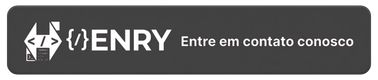
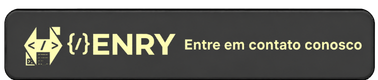
Atualização da aula 6
Foram adicionados estilos de botão nas páginas

diff --git a/index.html b/index.html
@@ -12,7 +12,7 @@
     <title>Diretório de Arquivos de Aulas</title>
     
 </head>
-<body bgcolor="#fffda4"> <!-- bg = background-->
+<body style ="background-color: rgb(255, 255, 197);"> <!-- bg = background-->
     <header>
         <h1>Diretório de Arquivos de Aulas</h1>
     </hearder>
@@ -23,6 +23,7 @@
         <a href="aula3/index.html"><button style="background-color: #000000; color: #ffffff; border: 2px solid #b3b0b0; border-radius: 40px; width: 70px; height: 40px;">Aula 3</button></a>
         <a href="aula4/texto.html"><button style="background-color: #000000; color: #ffffff; border: 2px solid #b3b0b0; border-radius: 40px; width: 70px; height: 40px;">Aula 4</button></a>
         <a href="aula5/paleta.html"><button style="background-color: #000000; color: #ffffff; border: 2px solid #b3b0b0; border-radius: 40px; width: 70px; height: 40px;">Aula 5</button></a>
+        <a href="aula6/index.html"><button style="background-color: #000000; color: #ffffff; border: 2px solid #b3b0b0; border-radius: 40px; width: 70px; height: 40px;">Aula 6</button></a>
     </main>
     <footer>
         <p>&copy; 2026 Diretório de Arquivos de Aulas</p>

diff --git a/aula6/index.html b/aula6/index.html
@@ -5,12 +5,13 @@
     <meta name="viewport" content="width=device-width, initial-scale=1.0">
     <title>Document</title>
 </head>
-<body>
+<body style = "background: rgb(255, 255, 197);" >
     <a aria-label="Chat on WhatsApp" target="_blank" href="https://wa.me/5511969090731?text=Olá!%20Tenho%20interesse%20em%20saber%20mais%20sobre%20os%20cursos%20de%20Programação."><img alt="Chat on WhatsApp" src="botao_whatsapp_henrydev.png" style="width:300p
-    x; height:auto;" /><br>
+    x; height:auto;" /><br><br>
     <a href="https://www.w3.org" target="_blank">Validador do W3C</a><br><br>
     <a href="cardapio_churrascaria.pdf" download>Baixar cardápio em PDF</a> <br><br>
-    <a href="https://maps.app.goo.gl/MLVvwWVLSzKQDaSe9" target="_blank">Localização no Google Maps</a>
-    </a><br>
+    <a href="https://maps.app.goo.gl/MLVvwWVLSzKQDaSe9" target="_blank">Localização no Google Maps</a><br><br>
+    <a href="../index.html"><button style = "background-color: #000000; color: #ffffff; border: 2px solid #b3b0b0; border-radius: 35px; width: 70px; height: 70px;">Voltar</button>
+    
 </body>
 </html>

diff --git a/aula1/index.html b/aula1/index.html
@@ -13,7 +13,7 @@
   <title>Henry de Cerqueira da Costa - Portifólio</title>
 </head>
 
-<body bgcolor="#fffda4">
+<body style="background-color: rgb(255, 255, 197);">
   <h1>HENRY DE CERQUEIRA DA COSTA</h1>
   <p>Bem-Vindo à minha página!</p>
   <a href="../index.html"><button style="background-color: #000000; color: #ffffff; border: 2px solid #b3b0b0; border-radius: 40px; width: 70px; height: 40px;">Voltar</button></a><br>

diff --git a/aula4/texto.html b/aula4/texto.html
@@ -5,7 +5,7 @@
     <meta name="viewport" content="width=device-width, initial-scale=1.0">
     <title>Estruturação semântica de conteúdo</title>
 </head>
-<body bgcolor="#fffda4">
+<body style="background-color: rgb(255, 255, 197);">
   <h1 style="text-align: center;">Estruturação semântica de conteúdo</h1>
   <h2 style="text-align: center;">O que é estruturação semântica?</h2>
 

diff --git a/aula3/index.html b/aula3/index.html
@@ -11,7 +11,7 @@
     <meta name="viewport" content="width=device-width, initial-scale=1.0">
     <title>Estrutura Semântica do HTML</title>
 </head>
-<body bgcolor="#fffda4">
+<body style="background-color: rgb(255, 255, 197);" >
     <!-- isso é um comentário -->
      <!-- Cabeçalho da página -->
 <header>

diff --git a/aula2/index.html b/aula2/index.html
@@ -12,7 +12,7 @@
 
     </title>
 </head>
-<body bgcolor="#fffda4">
+<body style="background-color: rgb(255, 255, 197);">
     <header>
         <h1>Meu Blog de Tecnologia</h1>
         <nav>
